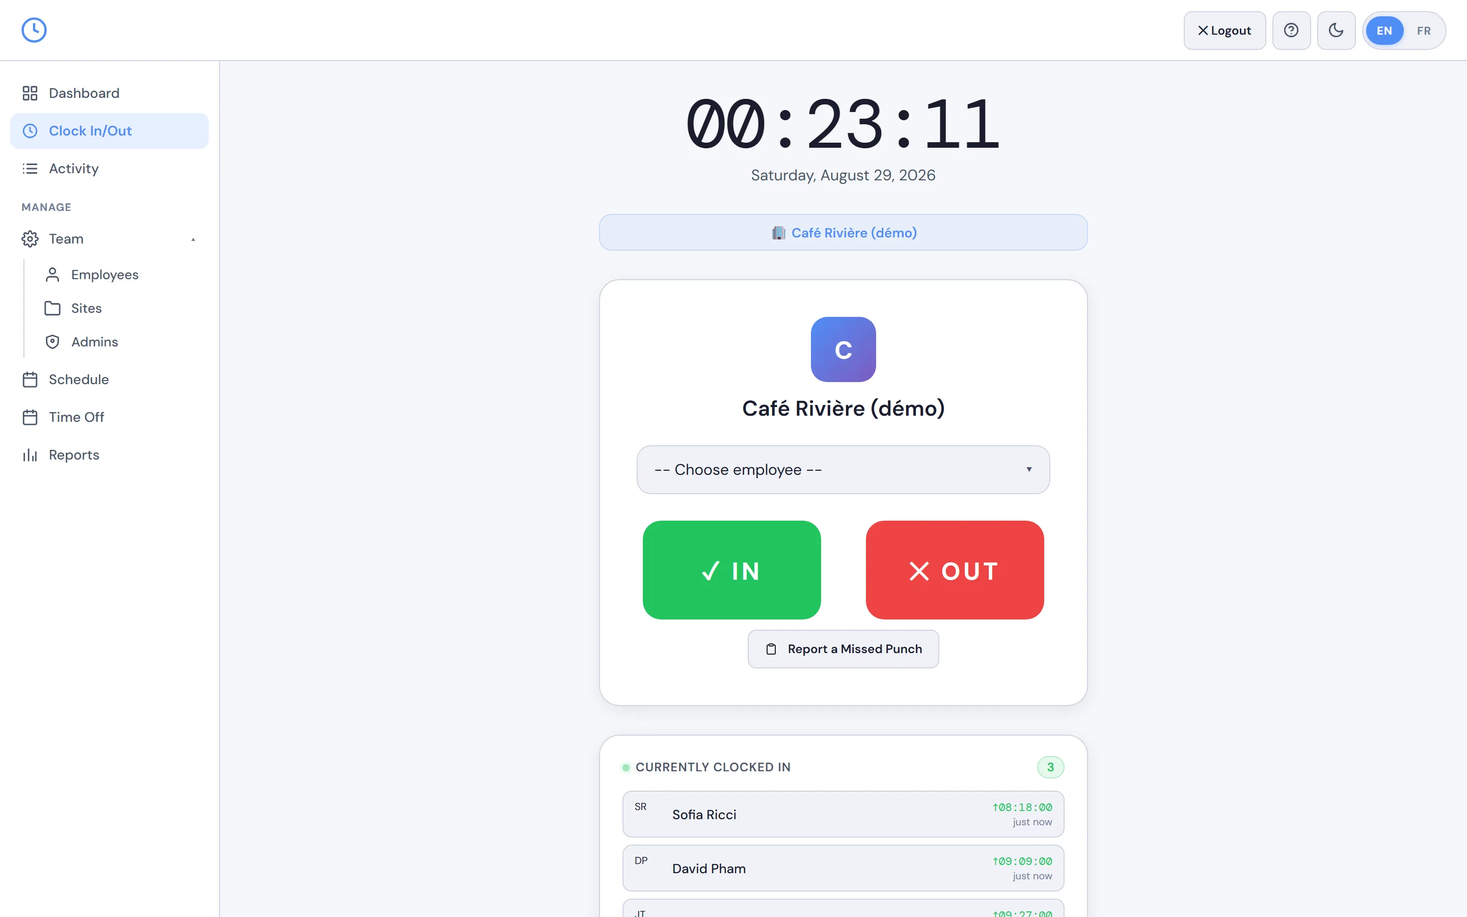
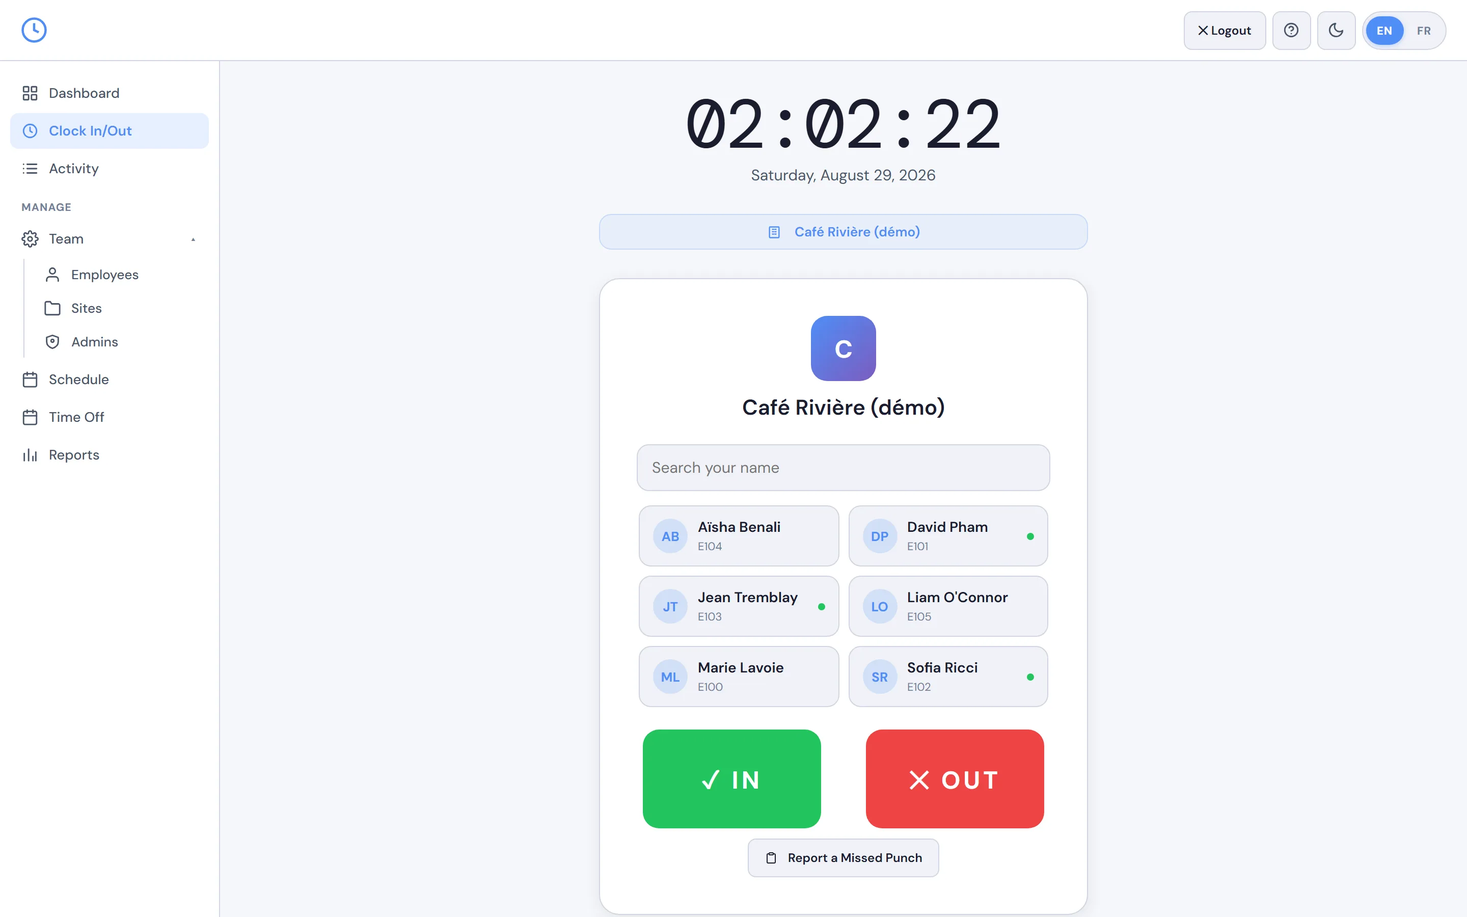
Phase 3: the punch screen stops being a dropdown
This is the single most-touched surface in the product — every employee, every shift,
twice a day — and picking your name meant a native <select> holding twenty entries:
an OS list that opens over the page, needs a precise tap, and shows a handful of names
at a time. It is now a grid of tiles with initials, a type-to-filter box, and a dot
marking anyone already clocked in, which is how a person notices they never clocked
out yesterday.

The select is still there, hidden, and still authoritative. A dozen call sites read
and clear empSelect.value and the punch flow, PIN gate and shift panel all key off its
change event, so the tiles drive it rather than replacing it. Clearing the selection
after a punch clears the highlight too.

Search ignores accents, so Aïsha is found by typing "aisha".

Also removes maximum-scale=1.0 from both pages. It blocked pinch-zoom entirely, which
is an accessibility failure and a practical one on a wall-mounted tablet where someone
may need to zoom to read a name.

And it closes the emoji sweep's blind spot: 32 emoji were written as numeric HTML
entities, which no regex over literal characters could see. The punch screen's own
banner was two of them. Two dead icon arrays went with them — the pickers they were
written for render initials and have for some time.

Three entities remain by choice: the ✓ and ✕ on the IN and OUT buttons, which are
typography rather than pictures.

tools/punchpicker-test.mjs: 22 assertions at tablet and phone widths.

diff --git a/index.html b/index.html
@@ -2,7 +2,10 @@
 <html lang="en" id="htmlRoot">
 <head>
 <meta charset="UTF-8">
-<meta name="viewport" content="width=device-width, initial-scale=1.0, maximum-scale=1.0">
+<!-- maximum-scale=1.0 blocked pinch-zoom entirely, which is an accessibility failure and a
+     practical one: these run on wall-mounted tablets where someone may genuinely need to
+     zoom to read a name or a time. -->
+<meta name="viewport" content="width=device-width, initial-scale=1.0">
 
 <!-- Content Security Policy.
      'unsafe-inline' is unavoidable for now: the whole app is one file of inline script and inline
@@ -518,6 +521,35 @@ body.role-resolved.role-admin .sn-item[data-admin-only]{display:flex;}
 /* One card recipe. Ten near-identical inline versions of this existed, differing by a pixel
    or two of padding and nothing else — which is exactly how a design drifts out of step with
    itself. Padding comes from the spacing scale rather than being eyeballed per instance. */
+/* Punch screen employee picker. This is the single most-touched surface in the product —
+   every employee, every shift, twice a day — and it was a 20-name native <select>: a dropdown
+   that opens an OS list, needs a precise tap, and shows a handful of names at a time. Tiles
+   are a big target with the person's initials on them, and typing filters instantly. */
+.emp-filter{width:100%;padding:12px 14px;font-size:15px;font-family:inherit;background:var(--surface2);
+  color:var(--text);border:1.5px solid var(--border);border-radius:var(--r-md);outline:none;margin-bottom:12px;}
+.emp-filter:focus{border-color:var(--accent);}
+.emp-grid{display:grid;grid-template-columns:repeat(auto-fill,minmax(132px,1fr));gap:9px;
+  max-height:46vh;overflow-y:auto;-webkit-overflow-scrolling:touch;padding:2px;margin-bottom:var(--s5);}
+.emp-tile{display:flex;align-items:center;gap:10px;padding:12px 13px;background:var(--surface2);
+  border:1.5px solid var(--border);border-radius:var(--r-md);cursor:pointer;font-family:inherit;
+  text-align:left;transition:border-color .12s,background .12s;min-height:60px;}
+.emp-tile:hover{border-color:var(--accent);}
+.emp-tile.sel{border-color:var(--accent);background:rgba(79,142,247,.14);}
+.emp-tile-ini{width:34px;height:34px;border-radius:50%;background:rgba(79,142,247,.18);color:var(--accent);
+  display:flex;align-items:center;justify-content:center;font-weight:700;font-size:13px;flex-shrink:0;}
+.emp-tile.sel .emp-tile-ini{background:var(--accent);color:#fff;}
+/* break-word, not anywhere: "anywhere" split Tremblay into "Trembla / y". A name should
+   wrap between words and only break inside one if it genuinely cannot fit. */
+.emp-tile-name{display:block;font-size:14px;font-weight:600;color:var(--text);line-height:1.25;overflow-wrap:break-word;}
+.emp-tile-code{display:block;font-size:11px;color:var(--text3);margin-top:2px;}
+/* An employee already clocked in is the single most useful thing to show here: it is how
+   someone notices they never clocked out yesterday. */
+.emp-tile-in{width:7px;height:7px;border-radius:50%;background:var(--green);flex-shrink:0;margin-left:auto;}
+.emp-grid-empty{text-align:center;color:var(--text3);font-size:13.5px;padding:22px 10px;}
+@media(max-width:520px){
+  .emp-grid{grid-template-columns:1fr 1fr;max-height:40vh;}
+  .emp-tile{min-height:64px;}
+}
 /* Busy state. A submit button that looks identical mid-request invites a second click, and
    several of these create records — a double-submitted employee or punch is a real cost. The
    label is hidden rather than replaced so the button keeps its width and nothing jumps. */
@@ -1482,17 +1514,17 @@ border-top:1px solid var(--border);margin:18px 0;}
     <h3 style="text-align:center;font-size:14px;font-weight:600;color:var(--text2);text-transform:uppercase;letter-spacing:.8px;margin:36px 0 20px" data-i18n="land.howSetupLabel">Getting Set Up</h3>
     <div style="display:grid;grid-template-columns:repeat(auto-fit,minmax(180px,1fr));gap:20px">
       <div style="text-align:center;padding:22px 14px;background:var(--surface2);border:1px solid var(--border);border-radius:var(--r-lg)">
-        <div style="font-size:34px;margin-bottom:10px">&#127970;</div>
+        <div style="margin-bottom:10px;color:var(--accent)"><svg class="ic" style="width:34px;height:34px"><use href="#i-nav-building"/></svg></div>
         <div style="font-weight:700;margin-bottom:5px;font-size:14px" data-i18n="land.how1Title">1. Create Your Account</div>
         <p style="font-size:12px;color:var(--text2);line-height:1.55" data-i18n="land.how1Desc">Register with your name, email, and company details — payroll settings included. Verify your email and add your first site.</p>
       </div>
       <div style="text-align:center;padding:22px 14px;background:var(--surface2);border:1px solid var(--border);border-radius:var(--r-lg)">
-        <div style="font-size:34px;margin-bottom:10px">&#128205;</div>
+        <div style="margin-bottom:10px;color:var(--accent)"><svg class="ic" style="width:34px;height:34px"><use href="#i-map-pin"/></svg></div>
         <div style="font-weight:700;margin-bottom:5px;font-size:14px" data-i18n="land.how2Title">2. Add Sites</div>
         <p style="font-size:12px;color:var(--text2);line-height:1.55" data-i18n="land.how2Desc">Create one or more physical locations — stores, warehouses, offices.</p>
       </div>
       <div style="text-align:center;padding:22px 14px;background:var(--surface2);border:1px solid var(--border);border-radius:var(--r-lg)">
-        <div style="font-size:34px;margin-bottom:10px">&#128101;</div>
+        <div style="margin-bottom:10px;color:var(--accent)"><svg class="ic" style="width:34px;height:34px"><use href="#i-users"/></svg></div>
         <div style="font-weight:700;margin-bottom:5px;font-size:14px" data-i18n="land.how3Title">3. Add Employees</div>
         <p style="font-size:12px;color:var(--text2);line-height:1.55" data-i18n="land.how3Desc">Register staff with a name, site, and 4-digit PIN. Optionally add emails for automated reports.</p>
       </div>
@@ -1507,32 +1539,32 @@ border-top:1px solid var(--border);margin:18px 0;}
     <h3 style="text-align:center;font-size:14px;font-weight:600;color:var(--text2);text-transform:uppercase;letter-spacing:.8px;margin:44px 0 20px" data-i18n="land.howAdminLabel">What Admins Can Do</h3>
     <div style="display:grid;grid-template-columns:repeat(auto-fit,minmax(180px,1fr));gap:20px">
       <div style="text-align:center;padding:22px 14px;background:var(--surface2);border:1px solid var(--border);border-radius:var(--r-lg)">
-        <div style="font-size:34px;margin-bottom:10px">&#9998;</div>
+        <div style="margin-bottom:10px;color:var(--accent)"><svg class="ic" style="width:34px;height:34px"><use href="#i-edit"/></svg></div>
         <div style="font-weight:700;margin-bottom:5px;font-size:14px" data-i18n="land.howA1Title">Edit Any Punch</div>
         <p style="font-size:12px;color:var(--text2);line-height:1.55" data-i18n="land.howA1Desc">Correct clock-in/out times, add missed punches, or remove invalid entries — all logged in an audit trail.</p>
       </div>
       <div style="text-align:center;padding:22px 14px;background:var(--surface2);border:1px solid var(--border);border-radius:var(--r-lg)">
-        <div style="font-size:34px;margin-bottom:10px">&#128202;</div>
+        <div style="margin-bottom:10px;color:var(--accent)"><svg class="ic" style="width:34px;height:34px"><use href="#i-bar-chart"/></svg></div>
         <div style="font-weight:700;margin-bottom:5px;font-size:14px" data-i18n="land.howA2Title">Generate Reports</div>
         <p style="font-size:12px;color:var(--text2);line-height:1.55" data-i18n="land.howA2Desc">Export hours by employee, site, or period in Excel, CSV, or PDF. Send reports directly to employees by email.</p>
       </div>
       <div style="text-align:center;padding:22px 14px;background:var(--surface2);border:1px solid var(--border);border-radius:var(--r-lg)">
-        <div style="font-size:34px;margin-bottom:10px">&#128336;</div>
+        <div style="margin-bottom:10px;color:var(--accent)"><svg class="ic" style="width:34px;height:34px"><use href="#i-clock"/></svg></div>
         <div style="font-weight:700;margin-bottom:5px;font-size:14px" data-i18n="land.howA3Title">Overtime Alerts</div>
         <p style="font-size:12px;color:var(--text2);line-height:1.55" data-i18n="land.howA3Desc">Automatically flag shifts over 8 hours or weeks over 40 hours. Highlighted in reports and exports.</p>
       </div>
       <div style="text-align:center;padding:22px 14px;background:var(--surface2);border:1px solid var(--border);border-radius:var(--r-lg)">
-        <div style="font-size:34px;margin-bottom:10px">&#128276;</div>
+        <div style="margin-bottom:10px;color:var(--accent)"><svg class="ic" style="width:34px;height:34px"><use href="#i-bell"/></svg></div>
         <div style="font-weight:700;margin-bottom:5px;font-size:14px" data-i18n="land.howA4Title">Automated Emails</div>
         <p style="font-size:12px;color:var(--text2);line-height:1.55" data-i18n="land.howA4Desc">At the end of each pay period, PunchClock automatically emails each employee their hours summary — no manual work.</p>
       </div>
       <div style="text-align:center;padding:22px 14px;background:var(--surface2);border:1px solid var(--border);border-radius:var(--r-lg)">
-        <div style="font-size:34px;margin-bottom:10px">&#128101;</div>
+        <div style="margin-bottom:10px;color:var(--accent)"><svg class="ic" style="width:34px;height:34px"><use href="#i-users"/></svg></div>
         <div style="font-weight:700;margin-bottom:5px;font-size:14px" data-i18n="land.howA5Title">Bulk Actions</div>
         <p style="font-size:12px;color:var(--text2);line-height:1.55" data-i18n="land.howA5Desc">Select multiple employees to send reports, activate, deactivate, or delete them all at once.</p>
       </div>
       <div style="text-align:center;padding:22px 14px;background:var(--surface2);border:1px solid var(--border);border-radius:var(--r-lg)">
-        <div style="font-size:34px;margin-bottom:10px">&#128274;</div>
+        <div style="margin-bottom:10px;color:var(--accent)"><svg class="ic" style="width:34px;height:34px"><use href="#i-lock"/></svg></div>
         <div style="font-weight:700;margin-bottom:5px;font-size:14px" data-i18n="land.howA6Title">Co-Admin Access</div>
         <p style="font-size:12px;color:var(--text2);line-height:1.55" data-i18n="land.howA6Desc">Invite co-admins to share management duties. Each co-admin sees the same companies, sites, and employees.</p>
       </div>
@@ -1713,7 +1745,7 @@ border-top:1px solid var(--border);margin:18px 0;}
   </div>
   <div class="picker-grid" id="pickerCompanyGrid"></div>
   <div class="picker-hints" id="pickerCompanyHints">
-    <span class="picker-hint" onclick="closePicker();navigate('login')">&#128274; Admin Login</span>
+    <span class="picker-hint" onclick="closePicker();navigate('login')"><svg class="ic" style="margin-right:5px"><use href="#i-lock"/></svg>Admin Login</span>
   </div>
 </div>
 
@@ -1721,13 +1753,13 @@ border-top:1px solid var(--border);margin:18px 0;}
 <div class="picker-screen hidden" id="pickerSite">
   <button class="picker-back" onclick="showCompanyPicker()">&#8592; Back</button>
   <div style="text-align:center">
-    <div style="font-size:38px;margin-bottom:10px">&#128205;</div>
+    <div style="margin-bottom:10px;color:var(--accent)"><svg class="ic" style="width:38px;height:38px"><use href="#i-map-pin"/></svg></div>
     <h2 id="sitePickerTitle">Select Site</h2>
     <p class="sub" id="sitePickerSub">Choose your work location</p>
   </div>
   <div class="picker-grid" id="pickerSiteGrid"></div>
   <div class="picker-hints">
-    <span class="picker-hint" onclick="closePicker();navigate('login')">&#128274; Admin Login</span>
+    <span class="picker-hint" onclick="closePicker();navigate('login')"><svg class="ic" style="margin-right:5px"><use href="#i-lock"/></svg>Admin Login</span>
   </div>
 </div>
 
@@ -1916,7 +1948,16 @@ border-top:1px solid var(--border);margin:18px 0;}
     <div class="punch-card">
       <div id="punchCoLogo"></div>
       <h2 id="punchCoName">Select Your Name</h2>
-      <div class="select-wrap"><select id="empSelect"><option value="">-- Choose employee --</option></select></div>
+      <!-- The select is now hidden but still the source of truth: a dozen call sites read and
+           clear empSelect.value, and the punch flow, PIN gate and shift panel all key off its
+           change event. The tiles drive it rather than replacing it. -->
+      <div class="select-wrap" id="empSelectWrap" style="display:none"><select id="empSelect"><option value="">-- Choose employee --</option></select></div>
+      <div id="empPickerWrap">
+        <input type="text" id="empFilter" class="emp-filter" autocomplete="off"
+               placeholder="Search your name" data-i18n="punch.searchName" oninput="renderEmpTiles()">
+        <div id="empGrid" class="emp-grid"></div>
+        <div id="empGridEmpty" class="emp-grid-empty" style="display:none"></div>
+      </div>
       <div class="punch-btns">
         <button class="punch-btn btn-in" onclick="requestPunch('IN')">&#10003; IN</button>
         <button class="punch-btn btn-out" onclick="requestPunch('OUT')">&#10005; OUT</button>
@@ -3649,7 +3690,7 @@ border-top:1px solid var(--border);margin:18px 0;}
   <div class="modal">
     <h3>Add Punch Record</h3>
     <div id="addPunchMsg"></div>
-    <div class="msg info" style="margin-bottom:14px">&#128221; Manual entry — use for forgotten clock-ins/outs.</div>
+    <div class="msg info" style="margin-bottom:14px"><svg class="ic" style="margin-right:6px"><use href="#i-edit"/></svg>Manual entry — use for forgotten clock-ins/outs.</div>
     <div class="form-group"><label>Employee</label><select id="addPunchEmp"></select></div>
     <div class="form-row">
       <div class="form-group"><label>Type</label>
@@ -4307,7 +4348,6 @@ function showCompanyPicker(){
     return;
   }
   const colors=['#4f8ef7','#22c55e','#a78bfa','#f59e0b','#ef4444','#06b6d4'];
-  const icons=['&#127970;','&#127968;','&#127963;','&#127981;','&#127979;','&#128736;'];
   grid.innerHTML=C.companies.map((co,i)=>{
     const empCnt=C.employees.filter(e=>e.company_id===co.id&&e.active).length;
     const siteCnt=C.sites.filter(s=>s.company_id===co.id).length;
@@ -4360,7 +4400,6 @@ function showSitePicker(co,sites){
   document.getElementById('sitePickerTitle').textContent=co.name;
   document.getElementById('sitePickerSub').textContent=t('msg.chooseSite');
   const colors=['#4f8ef7','#22c55e','#a78bfa','#f59e0b','#ef4444','#06b6d4'];
-  const icons=['&#128205;','&#127970;','&#127968;','&#128336;','&#127963;','&#9962;'];
   const grid=document.getElementById('pickerSiteGrid');
   grid.innerHTML=sites.map((s,i)=>{
     const empCnt=C.employees.filter(e=>e.site_id===s.id&&e.active).length;
@@ -6665,6 +6704,68 @@ function getEmpStatus(empId){
 // ═══════════════════════════════════════════════════
 // PUNCH PAGE
 // ═══════════════════════════════════════════════════
+// ── Punch screen: employee tiles ───────────────────────────────────────────
+let _punchEmps = [];
+
+function _initials(name){
+  return String(name||'').trim().split(/\s+/).slice(0,2).map(w=>w[0]||'').join('').toUpperCase() || '?';
+}
+
+function renderEmpTiles(){
+  const grid = document.getElementById('empGrid');
+  const empty = document.getElementById('empGridEmpty');
+  const sel = document.getElementById('empSelect');
+  if(!grid || !sel) return;
+  const q = (document.getElementById('empFilter')?.value || '').trim().toLowerCase();
+  // Accent-insensitive: someone called Aïsha should be found by typing "aisha".
+  const norm = x => String(x||'').toLowerCase().normalize('NFD').replace(/[̀-ͯ]/g,'');
+  const nq = norm(q);
+  const list = nq ? _punchEmps.filter(e => norm(e.name).includes(nq) || norm(e.emp_code).includes(nq))
+                  : _punchEmps;
+
+  if(!list.length){
+    grid.innerHTML = '';
+    if(empty){
+      empty.style.display = '';
+      empty.textContent = _punchEmps.length
+        ? (t('punch.noMatch')||'No one matches that.')
+        : (t('punch.noEmployees')||'No employees yet at this site.');
+    }
+    return;
+  }
+  if(empty) empty.style.display = 'none';
+
+  grid.innerHTML = list.map(e => {
+    const on = sel.value === e.id;
+    const isIn = (typeof getEmpStatus === 'function' && getEmpStatus(e.id).status === 'IN');
+    return `<button type="button" class="emp-tile${on?' sel':''}" data-emp="${esc(e.id)}"
+              aria-pressed="${on?'true':'false'}">
+        <span class="emp-tile-ini">${esc(_initials(e.name))}</span>
+        <span style="min-width:0">
+          <span class="emp-tile-name">${esc(e.name)}</span>
+          ${e.emp_code?`<span class="emp-tile-code">${esc(e.emp_code)}</span>`:''}
+        </span>
+        ${isIn?`<span class="emp-tile-in" title="${esc(t('punch.currentlyIn')||'Currently clocked in')}"></span>`:''}
+      </button>`;
+  }).join('');
+}
+
+function selectPunchEmp(id){
+  const sel = document.getElementById('empSelect');
+  if(!sel) return;
+  sel.value = id;
+  // The select is what the rest of the punch flow listens to, so fire its handler rather than
+  // duplicating what it does.
+  if(typeof sel.onchange === 'function') sel.onchange.call(sel);
+  renderEmpTiles();
+}
+
+// Delegated so re-rendering the grid never leaves stale handlers behind.
+document.addEventListener('click', function(e){
+  const tile = e.target.closest && e.target.closest('.emp-tile');
+  if(tile && tile.dataset.emp) selectPunchEmp(tile.dataset.emp);
+});
+
 async function loadPunchPage(){
   const ctx=Ctx.get();
   if(!ctx){
@@ -6686,8 +6787,8 @@ async function loadPunchPage(){
   // Banner
   const banner=document.getElementById('punchBanner');
   banner.innerHTML=siteId
-    ?`&#127970; ${ctx.co.name} &nbsp;·&nbsp; &#128205; ${ctx.site.name}`
-    :`&#127970; ${ctx.co.name}`;
+    ?`<svg class="ic" style="width:14px;height:14px;margin-right:5px;vertical-align:-2px"><use href="#i-nav-building"/></svg>${esc(ctx.co.name)} &nbsp;·&nbsp; <svg class="ic" style="width:14px;height:14px;margin-right:5px;vertical-align:-2px"><use href="#i-map-pin"/></svg>${esc(ctx.site.name)}`
+    :`<svg class="ic" style="width:14px;height:14px;margin-right:5px;vertical-align:-2px"><use href="#i-nav-building"/></svg>${esc(ctx.co.name)}`;
   // Show kiosk setup bar only when admin is logged in
   const kioskBar=document.getElementById('kioskSetupBar');
   if(kioskBar) kioskBar.style.display=isLoggedIn()?'flex':'none';
@@ -6717,6 +6818,10 @@ async function loadPunchPage(){
     o.textContent=e.name+(e.emp_code?` (${e.emp_code})`:'');
     sel.appendChild(o);
   });
+  // The tiles are the visible picker; the select stays authoritative.
+  _punchEmps = emps;
+  renderEmpTiles();
+
   // Show My Shifts when employee is selected
   sel.onchange = function() {
     const empId = this.value;
@@ -7121,7 +7226,7 @@ async function executePunch(empId,type){
           `${t('geo.deviceNotRegistered')||'This device is not registered for'} <strong>${site.name}</strong>. ${t('geo.askAdmin')||'Ask your manager to register this device using the Kiosk Shortcut button.'}`,
           'error'
         );
-        document.getElementById('empSelect').value='';
+        document.getElementById('empSelect').value='';renderEmpTiles();
         return;
       }
     }
@@ -7150,7 +7255,7 @@ async function executePunch(empId,type){
           // GPS unavailable + strict mode
           showPunchMsg(`${geoResult.message||t('geo.blockedNoGps')}`, 'error');
         }
-        document.getElementById('empSelect').value='';
+        document.getElementById('empSelect').value='';renderEmpTiles();
         return;
       }
 
@@ -7179,7 +7284,7 @@ async function executePunch(empId,type){
       const timeStr = now.toLocaleTimeString('en-US',{hour:'2-digit',minute:'2-digit'});
       const geoNote = geoResult.status==='ok' ? ` · ${geoResult.distance}m` : '';
       showPunchMsg(`&#10003; ${emp.name} clocked ${type} at ${timeStr}${geoNote}`,'success');
-      document.getElementById('empSelect').value='';
+      document.getElementById('empSelect').value='';renderEmpTiles();
       refreshClockedIn();
     }catch(e){showPunchMsg(t('msg.errorSaving')+': '+e.message,'error');}
   } finally {
@@ -7201,7 +7306,7 @@ let _dblPunchPending = null; // {empId, attemptedType}
 function showDoublePunchWarning(empId, attemptedType){
   const emp = C.employees.find(e=>e.id===empId);
   if(!emp){
-    document.getElementById('empSelect').value='';
+    document.getElementById('empSelect').value='';renderEmpTiles();
     return;
   }
   const {last} = getEmpStatus(empId);
@@ -12130,7 +12235,7 @@ async function init(){
     setTimeout(()=>{
       const msg=document.createElement('div');
       msg.style.cssText='position:fixed;bottom:20px;left:50%;transform:translateX(-50%);background:#1a1d27;border:1px solid var(--red);border-radius:var(--r-md);padding:12px 20px;color:var(--text);font-size:13px;z-index:9999;display:flex;align-items:center;gap:12px;box-shadow:0 4px 20px rgba(0,0,0,.5)';
-      msg.innerHTML=`<span style="color:var(--red)">&#9888;</span> Database connection failed. <button onclick="location.reload()" style="background:var(--accent);border:none;border-radius:var(--r-xs);color:#fff;padding:4px 12px;font-family:inherit;font-size:12px;cursor:pointer;margin-left:4px">Retry</button><button onclick="this.parentElement.remove()" style="background:none;border:none;color:var(--text3);font-size:16px;cursor:pointer;padding:0 4px">&times;</button>`;
+      msg.innerHTML=`<span style="color:var(--red)"><svg class="ic" style="margin-right:4px"><use href="#i-warn"/></svg></span> Database connection failed. <button onclick="location.reload()" style="background:var(--accent);border:none;border-radius:var(--r-xs);color:#fff;padding:4px 12px;font-family:inherit;font-size:12px;cursor:pointer;margin-left:4px">Retry</button><button onclick="this.parentElement.remove()" style="background:none;border:none;color:var(--text3);font-size:16px;cursor:pointer;padding:0 4px">&times;</button>`;
       document.body.appendChild(msg);
       setTimeout(()=>msg.remove(),10000);
     },300);
@@ -13058,6 +13163,7 @@ var _appLang='en';
 var _punchLang='en';
 var TRANSLATIONS={
 en:{
+'punch.searchName':'Search your name','punch.noMatch':'No one matches that.','punch.noEmployees':'No employees yet at this site.',
 'dlg.confirmTitle':'Are you sure?','dlg.confirm':'Confirm','dlg.noticeTitle':'Heads up','dlg.ok':'OK',
 'fb.title':'Welcome back — can we ask one question?','fb.body':'It has been {n} days. What got in the way?',
 'fb.thanks':'Thank you — that helps.','fb.more':'Anything you want to add? (optional)','fb.placeholder':'Optional',
@@ -13837,6 +13943,7 @@ en:{
 'sched.saveEmail':'Save email for future use',
 },
 fr:{
+'punch.searchName':'Cherchez votre nom','punch.noMatch':'Aucune correspondance.','punch.noEmployees':'Aucun employé à ce site pour l’instant.',
 'dlg.confirmTitle':'Êtes-vous sûr?','dlg.confirm':'Confirmer','dlg.noticeTitle':'Avis','dlg.ok':'OK',
 'fb.title':'Content de vous revoir — une seule question?','fb.body':'Ça fait {n} jours. Qu’est-ce qui vous a bloqué?',
 'fb.thanks':'Merci — c’est utile.','fb.more':'Souhaitez-vous ajouter quelque chose? (optionnel)','fb.placeholder':'Optionnel',

diff --git a/employee.html b/employee.html
@@ -2,7 +2,10 @@
 <html lang="en" id="empHtmlRoot">
 <head>
 <meta charset="UTF-8">
-<meta name="viewport" content="width=device-width, initial-scale=1.0, maximum-scale=1.0">
+<!-- maximum-scale=1.0 blocked pinch-zoom entirely, which is an accessibility failure and a
+     practical one: these run on wall-mounted tablets where someone may genuinely need to
+     zoom to read a name or a time. -->
+<meta name="viewport" content="width=device-width, initial-scale=1.0">
 
 <!-- Tighter than the admin app's policy: the portal loads no third-party scripts at all. -->
 <meta http-equiv="Content-Security-Policy" content="
